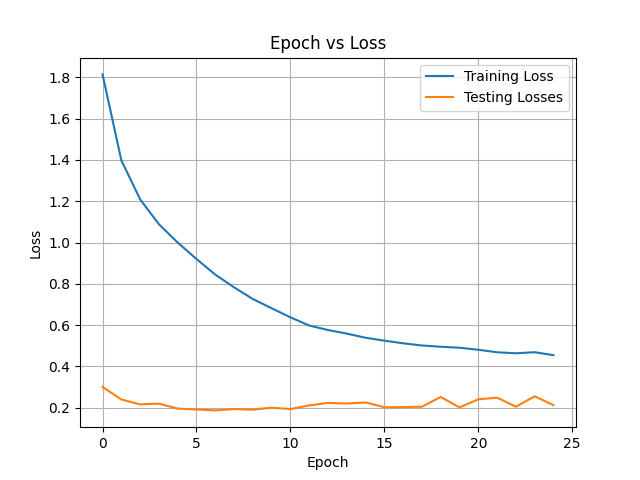
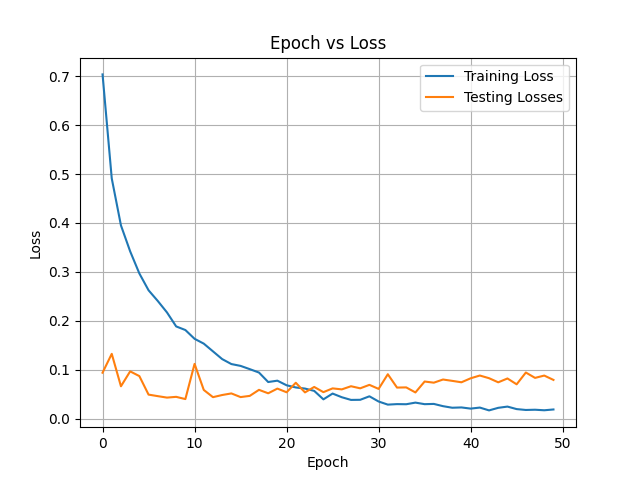
everything is working

diff --git a/projects/finalproj/Final_Project_Steven_Wallace.py b/projects/finalproj/Final_Project_Steven_Wallace.py
@@ -35,14 +35,15 @@ import os
 ##### Constants #####
 #####################
 
+# I found that 20 epochs was about where the training and testing loss intercepted. 
+# Therefore, adding any more epochs would result in overfitting. My computer can handle 20 epochs in less than a minute.
 BATCH_SIZE = 128
-NUM_CLASSES = 10
-EPOCHS = 50
+NUM_CLASSES = 2
+EPOCHS = 20
 
 INCLUDE_LIST = ['ship', 'truck']
 SHOW_GRAPHS = True
 SHOW_PROGRESS = True
-# DEVICE = 'cpu'
 DEVICE = 'cuda' if torch.cuda.is_available() else 'cpu'
 
 #################################
@@ -93,9 +94,9 @@ class CIFAR10_Custom_Net(nn.Module):
         self.mpool = nn.MaxPool2d(kernel_size=2)
         self.drop1 = nn.Dropout(p=0.25)
         self.flat = nn.Flatten()
-        self.fc1 = nn.Linear(in_features=64*14*14, out_features=128)
+        self.fc1 = nn.Linear(in_features=64*14*14, out_features=32)
         self.drop2 = nn.Dropout(p=0.5)
-        self.fc2 = nn.Linear(in_features=128, out_features=num_classes)
+        self.fc2 = nn.Linear(in_features=32, out_features=num_classes)
 
     def forward(self, x):
         x = F.relu(self.conv1(x))
@@ -253,7 +254,19 @@ def training_loop(model, trainloader, testloader, criterion, optimizer):
 
 
 def hideous_sorting_function(dataset):
+    """
+    A hideous sorting function to remove all the classes except for those in the include list.
 
+    Parameters
+    ----------
+    dataset: torchvision.datasets.CIFAR10
+        The CIFAR10 dataset to be sorted. There are four times I call this function, and the transforms or test/train boolean will be different each time.
+    
+    Returns
+    -------
+    dataset: torchvision.datasets.CIFAR10
+        Hopefully, I am returning the dataset as close to untouched as possible. I just wanted to remove the unwanted classes from it.
+    """
 
     # There is a dictionary which connects the string labels to integers.
     # I need to create a list of the label integers that I want to discard.
@@ -267,6 +280,10 @@ def hideous_sorting_function(dataset):
     exclude = np.array(exclude_list).reshape(1, -1)
     mask = ~(targets.reshape(-1, 1) == exclude).any(axis=1)
 
+    # The labels must start with 0. After this command and the mask, they will be either 0 or 1.
+    targets -= 8
+
+    # Shove the modified data structures back into the class.
     dataset.data = dataset.data[mask]
     dataset.targets = list(targets[mask])
 